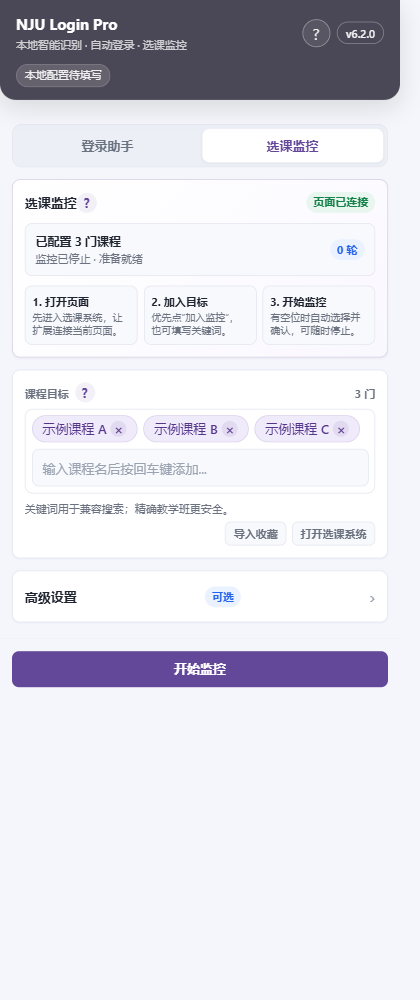
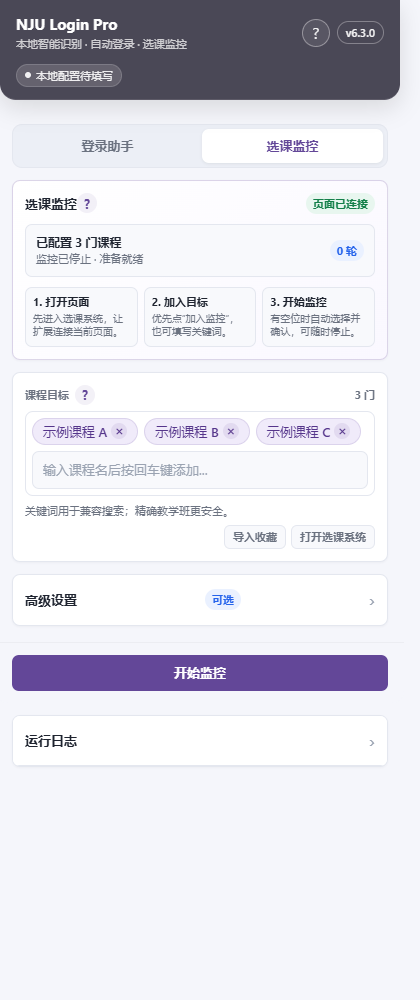
chore(release): prepare v6.3.0

diff --git a/content-grab.js b/content-grab.js
@@ -1287,7 +1287,7 @@ function grabPageSummaryPresentation(state, currentTime = Date.now()) {
         tone: 'warning'
       };
     }
-    
+
     const activeStates = Object.values(source.targetStates || {}).filter(s => s.phase !== 'SKIPPED' && s.phase !== 'SELECTED');
     const isAllOutOfScope = activeStates.length > 0 && activeStates.every(s => String(s.lastMessage || '').includes('课程分类'));
     if (isAllOutOfScope) {
@@ -1669,9 +1669,9 @@ function ensureGrabPageStatusPanel() {
     const baseLeft = rect.left - currentTranslateX;
     const baseTop = rect.top - currentTranslateY;
     const baseWidth = rect.width;
-    
+
     // Bounds constraints
-    const minDy = -baseTop + 12; 
+    const minDy = -baseTop + 12;
     const maxDy = window.innerHeight - 40 - baseTop;
     const maxDx = window.innerWidth - 40 - baseLeft;
     const minDx = 40 - baseWidth - baseLeft;
@@ -1679,7 +1679,7 @@ function ensureGrabPageStatusPanel() {
     const onPointerMove = moveEvent => {
       let rawDx = moveEvent.clientX - startX;
       let rawDy = moveEvent.clientY - startY;
-      
+
       const dx = Math.max(minDx, Math.min(rawDx, maxDx));
       const dy = Math.max(minDy, Math.min(rawDy, maxDy));
 

diff --git a/docs/user-guide.md b/docs/user-guide.md
@@ -81,9 +81,11 @@
 6. 选择“开始监控”。日志会显示匹配、满员、组完成、已验证成功或异常状态。
 7. 可以随时选择“停止监控”；全部课程组完成后也会自动停止。
 
-实际选课页右下角默认显示可折叠的“课程雷达”，课程行内也会出现“加入监控”按钮。折叠状态可查看任务是否运行、当前轮次和下次检查时间；展开后可查看课程组进度、接口或 DOM 查询通道，以及每个目标的满员监控、提交、验证、重试和最终结果。仅配置但尚未启动的教学班显示“待启动”，明确表示当前没有运行监控。点击雷达标题栏的“×”会整体隐藏插件在课程列表中加入的雷达、行内按钮和布局增强；如需重新开启或长期关闭，请在 Popup 的“选课页增强控件”中调整。隐藏这些元素不会停止已经运行的课程监控，也不会删除任务配置。
+实际选课页右下角默认显示“课程雷达”，课程行内也会出现“加入监控”按钮。展开雷达可查看课程组进度、接口或 DOM 查询通道、下次检查时间，以及每个目标的满员监控、提交、验证、重试和最终结果；仅配置但尚未启动的教学班显示“待启动”。标题栏的“−”可以把雷达收成胶囊，双击左侧边缘也有相同效果；点击胶囊或用键盘激活标题按钮即可恢复。标题栏“×”只隐藏雷达，并在页面边缘保留恢复入口，不会停止任务。
 
-接口查询保持串行，避免暴力并发。默认一轮可覆盖最多 12 个目标，因此常见的 5 门任务首轮都会检查；只有目标超过安全上限时才会显示“分批待查”。抢到课程并完成二次验证后，扩展会自动关闭本次操作产生的学校结果提示框，再继续处理其他目标；登录和验证码提示不会被自动关闭。
+雷达中的“立即检查”只会在监控已运行且当前空闲时出现，不会越过退避、登录恢复或公共课查询节流。停止监控后可以调整间隔；“更多”菜单还可导入当前收藏页课程、隐藏已选目标、复制脱敏诊断、重置位置与尺寸。只有选择“关闭选课页增强”或在 Popup 关闭“选课页增强控件”时，才会同时隐藏雷达、课程行内按钮和布局增强；这些显示设置都不会删除任务配置。
+
+接口查询保持串行，避免暴力并发。公共课页面连续完成 3 次课程查询后至少冷却 1 秒，再继续本轮剩余目标；收藏页查询不套用这项公共课限流保护。默认一轮可覆盖最多 12 个目标，因此常见任务仍会在同一轮全部检查；只有目标超过安全上限时才会显示“分批待查”。抢到课程并完成二次验证后，扩展会自动关闭本次操作产生的学校结果提示框，再继续处理其他目标；登录和验证码提示不会被自动关闭。
 
 如果某个教学班返回“课程冲突”，扩展会关闭结果框并记住这个具体教学班，本次任务后续轮次不再重复提交它；同一目标还有其他教学班时会继续尝试或等待余量。只有所有候选教学班都冲突时，该目标才显示“需处理”。如果你之后主动调整了已选课表，希望重新尝试原冲突班，请停止并重新开始任务，以清空本次运行的冲突候选记录。
 

diff --git a/docs/RELEASE_NOTES_v6.3.0.md b/docs/RELEASE_NOTES_v6.3.0.md
@@ -1,0 +1,28 @@
+# NJU Login Pro v6.3.0
+
+v6.3.0 重点改进课程监控的跨页面能力、公共课稳定性和页面交互。已有登录设置与课程目标会继续保留，无需重新配置。
+
+## 主要变化
+
+- 监控目标在其他课程分类时，会在运行中自动切换到对应页面继续检查，不再把“当前页没有这门课”误显示成目标不存在。
+- 公共课查询每连续完成 3 次后至少冷却 1 秒，降低多目标瞬时请求触发限流或退出登录的概率；收藏页维持原有速度。
+- 收藏页、公选课页和其他课程页加入的精确教学班会统一类别，旧目标可在重新导入收藏时补齐分类。
+- 课程雷达增加立即检查、间隔预设、目标跳转与移除、收藏导入、隐藏已选目标、复制脱敏诊断，以及位置和尺寸重置。
+- 雷达可拖动、调整大小或收成胶囊；标题栏“×”只隐藏面板，“关闭选课页增强”才会同时关闭行内按钮和布局增强。
+- Popup 的运行日志现在只会出现在“课程监控”页，不再混入“登录助手”页。
+- 登录失效仍会先保存任务，在同一标签页完成登录并进入当前轮次后验证恢复；连续失败会转为人工处理。
+
+## 使用提示
+
+- “立即检查”只在监控运行且空闲时可用，不会跳过退避、登录恢复或公共课查询节流。
+- 运行中移除目标会先要求“停止并移除”，防止仍在执行的旧任务覆盖配置。
+- 课程监控仍需要保持选课标签页打开；窗口可以不在前台，但浏览器可能对后台标签页计时器进行节流。
+- 手动安装用户应下载 `NJU-Login-Pro-v6.3.0.zip`，不要下载 GitHub 自动生成的 `Source code`。
+
+## 验证范围
+
+- 186 项离线测试全部通过。
+- 新增覆盖跨分类自动导航、公共课三次查询冷却、立即检查安全门槛、目标移除、浮动菜单、胶囊键盘入口和减少动态效果。
+- 正式发布包继续使用白名单构建，没有新增浏览器权限。
+
+完整变更见 [CHANGELOG](../CHANGELOG.md)，安装和安全边界见 [README](../README.md)。

diff --git a/CHANGELOG.md b/CHANGELOG.md
@@ -4,6 +4,15 @@
 
 ## Unreleased
 
+## v6.3.0 - 2026-08-27
+
+- 课程监控可在运行中自动切换到目标所属的专业、公共、跨专业、通修、体育、悦读或收藏页；自动跳转带运行代次校验和等待上限，停止或重启后旧导航不会继续生效，关闭页面增强也不影响必要的跨页监控。
+- 修复公共课目标较多时短时间连续查询可能触发限流或被误判为登录失效的问题：公共课查询保持串行，每完成 3 次响应至少冷却 1 秒；收藏页查询不套用这项额外冷却，接口明确返回限流或认证失效时立即停止本批次。
+- 修复收藏课程来自不同页面时长期“等待分类”、跨页面只显示“暂未找到”，以及公选课/收藏页同一教学班类别别名不一致的问题；关键词目标会在已经捕获的课程目录之间逐轮查找，精确目标保留并补齐查询类别。
+- 课程雷达新增安全的“立即检查”、停止态间隔预设、目标页面跳转与移除、收藏导入、隐藏已选目标、脱敏诊断、位置尺寸重置和整页增强开关；“立即检查”不会绕过查询中的请求、退避、登录恢复或公共课节流。
+- 重做课程雷达视觉与布局，支持拖动边界保护、可调整尺寸、胶囊模式、明确的开始/停止状态和键盘操作；系统启用“减少动态效果”时会关闭教程、扫描、成功和弹簧过渡动画；修复“运行日志”误显示在登录助手页的问题。
+- 补充页面操作、跨页自动导航、公共课 3 次查询冷却、菜单关闭、目标移除、胶囊模式与减少动态效果的离线回归测试；同步更新 README 示例图、使用指南和发布说明。
+
 ## v6.2.1 - 2026-08-26
 
 - 选课系统自动登录开始时会立即遮住官方登录面板，避免用户误触干扰验证码点击；设置关闭、转人工、识别失败或提交后页面未跳转时均会在限定时间内自动解除，不再存在长期锁住登录界面的风险。

diff --git a/README.md b/README.md
@@ -32,9 +32,9 @@ NJU Login Pro 面向需要访问南京大学统一身份认证和选课系统的
 
 以下画面均使用空白配置或示例课程，不包含真实账号和教学班信息。
 
-| 登录助手 | 选课监控配置 | 课程页雷达 |
+| 登录助手 | 选课监控配置 | 课程页雷达与胶囊 |
 | --- | --- | --- |
-| <img src="assets/popup-login-preview.png" alt="登录助手界面，账号为空" width="280"> | <img src="assets/popup-grab-preview.png" alt="选课监控配置界面，使用示例课程" width="280"> | <img src="assets/course-radar-preview.png" alt="课程雷达界面，使用示例课程" width="280"> |
+| <img src="assets/popup-login-preview.png" alt="登录助手界面，账号为空" width="280"> | <img src="assets/popup-grab-preview.png" alt="选课监控配置界面，使用示例课程" width="280"> | <img src="assets/course-radar-preview.png" alt="课程雷达展开状态与胶囊状态，使用示例课程" width="280"> |
 
 ## 安装
 
@@ -57,6 +57,8 @@ NJU Login Pro 面向需要访问南京大学统一身份认证和选课系统的
 1. 打开扩展，在“登录助手”中填写学号或工号与密码并保存。
 2. 按需要分别开启“统一认证自动登录”和“选课系统自动登录”。“无感登录”默认关闭，开启后会在浏览器启动时先在后台登录一次。
 3. 访问支持的学校页面。进入选课页后，优先在目标教学班旁选择“加入监控”，或在扩展的“选课监控”中填写课程关键词，再在选课页的课程雷达中点击“开始监控”。
+
+课程雷达可以开始或停止监控、空闲时立即检查、调整停止态间隔、跳转到目标所在课程页并移除目标。暂时不想占屏幕时可收成胶囊或只隐藏面板；“关闭选课页增强”才会连同行内按钮和布局增强一起关闭。
 
 详细步骤见 [用户使用指南](docs/user-guide.md)。
 

diff --git a/docs/course-grab-improvement-plan.md b/docs/course-grab-improvement-plan.md
@@ -416,7 +416,7 @@ CourseGroup 已在精确目标和持久化稳定后实现。示例：
 ### Phase 4：交互
 
 - [x] 页面课程雷达展示每个目标的流程状态、最后结果和下一次检查或重试时间；
-- [x] 页面关闭按钮和 Popup 持久开关可整体隐藏课程雷达、行内加入按钮和布局增强，不影响后台任务；
+- [x] 页面“×”只隐藏课程雷达并保留恢复入口；更多菜单和 Popup 持久开关可整体隐藏课程雷达、行内加入按钮和布局增强，不影响后台任务；
 - [x] 已捕获结果后自动关闭本次提交产生的学校结果框，避免遮罩阻塞后续候选；
 - [x] 冲突按候选教学班永久排除并随会话恢复，同轮继续尝试其他班，不跨轮重复提交同一冲突班；
 - [x] Popup 一键导入当前收藏页已加载的教学班，按精确 ID 去重，保留现有课程组并在运行中拒绝改写任务；
@@ -424,6 +424,7 @@ CourseGroup 已在精确目标和持久化稳定后实现。示例：
 - [x] 关键词目标支持教师、时间和校区包含过滤，条件按 AND 执行并参与目标唯一身份，接口与 DOM 候选共享同一匹配规则；
 - [x] CourseGroup 编辑界面；
 - [x] Popup 与页面雷达共享登录恢复阶段展示，明确区分等待登录、自动返回、恢复验证和人工接管；说明不会自动退保底或在浏览器重启后自行恢复真实提交。
+- [x] 页面雷达提供安全的立即检查、停止态间隔预设、目标跳转与移除、收藏导入、脱敏诊断、显示筛选、位置重置和胶囊模式；危险操作不进入快捷菜单。
 
 ## 测试与验收
 

diff --git a/docs/testing.md b/docs/testing.md
@@ -75,7 +75,7 @@ powershell -NoProfile -ExecutionPolicy Bypass -File scripts/build-package.ps1
 5. 选课点击验证码低置信度时不会盲点；
 6. 课程监控能停止；确认弹窗后不会立即显示成功，同名课程可继续扫描后续教学班；
 7. Popup 能区分接口查询、精确 DOM 物化和 DOM 兼容回退，运行快照中不出现查询词或请求参数；
-8. 选课页课程雷达不遮挡原生操作，折叠、页面总关闭、Popup 重新开启、键盘焦点、目标状态和倒计时正确；关闭后雷达、行内加入按钮和布局增强全部消失，未运行目标只显示“待启动”；
+8. 选课页课程雷达不遮挡原生操作，展开、胶囊、单独隐藏、页面总关闭、Popup 重新开启、键盘焦点、目标状态和倒计时正确；“×”只隐藏雷达并可恢复，“关闭选课页增强”会让雷达、行内加入按钮和布局增强全部消失，未运行目标只显示“待启动”；系统启用“减少动态效果”后不播放雷达过渡、教程、扫描或成功动画；
 9. 五个普通目标首轮全部得到接口查询结果；超过 12 个目标时才显示下轮分批，并保持串行请求；
 10. 选课成功经二次验证后，本次新出现的学校结果框自动关闭；课程冲突等失败框即使晚于接口结果约 250ms 出现也会被关闭，随后其他目标仍能继续提交；登录或验证码交互框保持不动；
 11. 冲突教学班同轮只尝试一次并继续后续候选，后续轮次和页面重载后都不再重复提交；仍有其他满员候选时继续监控，全部冲突时目标进入“需处理”；

diff --git a/docs/troubleshooting.md b/docs/troubleshooting.md
@@ -47,10 +47,18 @@
 - 确认当前已经登录并位于课程列表页面；
 - 每行只填写一个课程关键词；
 - 使用足以区分课程的名称片段；
-- 检查课程是否在当前批次、校区或分类中可见；
-- 查看日志中是否出现“未找到”“满员”或页面通信错误。
+- 检查课程是否属于当前批次和校区；运行中若目标在其他课程分类，雷达会先显示跨页待查并自动切换，停止时也可从目标菜单手动跳转；
+- 查看选课监控页的运行日志中是否出现“未找到”“满员”、等待查询模板或页面通信错误。
 
 建议使用 5 秒或更长刷新间隔。频率过高不会提高页面本身的数据更新速度，还可能增加系统负担。
+
+## 公共课目标较多时退避或退出登录
+
+公共课页面对短时间连续课程查询更敏感。当前版本会保持串行查询，并在每完成 3 次公共课响应后至少冷却 1 秒；收藏页不会额外等待。请不要连续点击“立即检查”或同时在多个标签页启动相同任务。若网站已经返回限流或登录失效，等待雷达倒计时结束或按提示重新登录，不要反复刷新绕过保护。
+
+## 课程监控必须放在前台吗
+
+选课标签页必须保持打开，但不要求始终位于最前面。浏览器在窗口最小化、标签页长期处于后台或设备休眠时可能降低计时器频率，因此实际检查间隔可能变长；要获得更稳定的时序，选课期间应避免浏览器休眠，并保留一个正在运行任务的选课标签页。
 
 ## 课程监控提示需要重新登录
 

diff --git a/docs/README.md b/docs/README.md
@@ -28,6 +28,7 @@
 
 ## 发布说明
 
+- [v6.3.0](RELEASE_NOTES_v6.3.0.md)
 - [v6.2.1](RELEASE_NOTES_v6.2.1.md)
 - [v6.2.0](RELEASE_NOTES_v6.2.0.md)
 - [v6.0.0](RELEASE_NOTES_v6.0.0.md)
